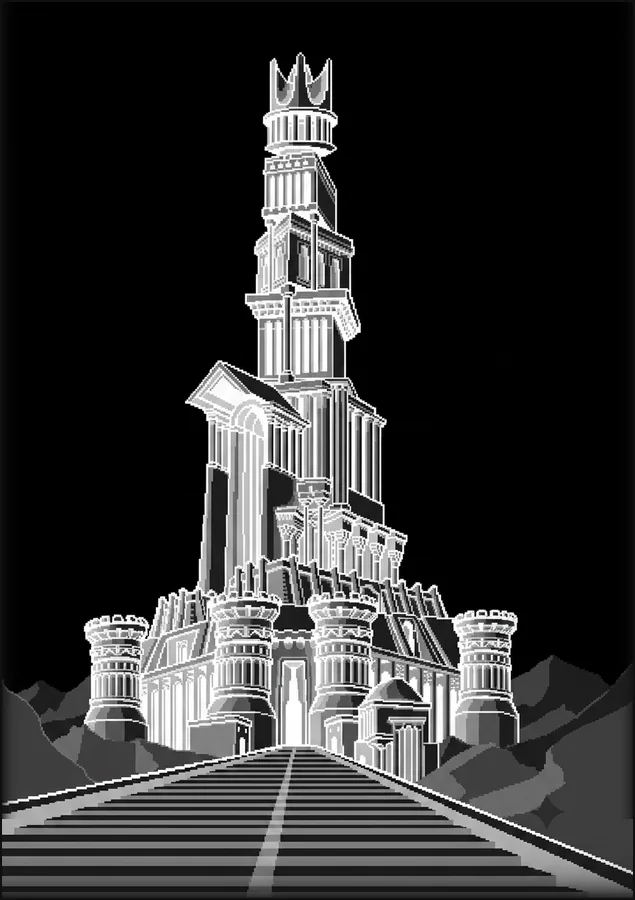
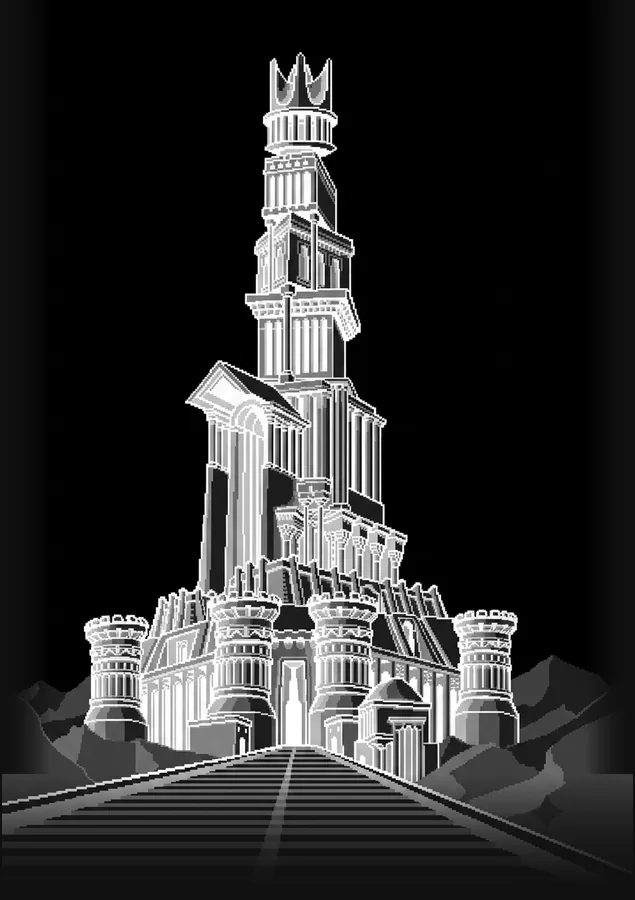
feat: mobile theme toggle + smoother home image fade
- Added a 6th bottom-nav theme toggle (sun/moon icon) on mobile, hidden
  on desktop where the footer toggle remains. client.ts now binds all
  [data-theme-toggle] buttons and syncs each button's icon/label.
- Regenerated home-bg images with a wider, smoother left/right/bottom
  fade reaching pure white (light) / dark paper #101010 (dark); top edge
  stays sharp. Drawing center stays fully clear.

Changed region(s): [[0.0, 0.7467, 1.0, 1.0], [0.9276, 0.7778, 1.0, 0.8711]]

diff --git a/src/lib/client.ts b/src/lib/client.ts
@@ -21,24 +21,28 @@ function showSnackbar(msg: string) {
 /* Theme toggle */
 function themeInit() {
   const html = document.documentElement;
-  const btn = document.querySelector('[data-theme-toggle]');
-  const label = document.querySelector('[data-theme-label]');
-  const sun = document.querySelector('[data-theme-icon-sun]');
-  const moon = document.querySelector('[data-theme-icon-moon]');
+  const btns = Array.from(document.querySelectorAll('[data-theme-toggle]'));
   const sync = () => {
     const dark = html.getAttribute('data-theme') === 'dark';
-    if (label) label.textContent = dark ? 'Dark mode' : 'Light mode';
-    if (sun) sun.style.display = dark ? 'none' : 'block';
-    if (moon) moon.style.display = dark ? 'block' : 'none';
+    btns.forEach((btn) => {
+      const label = btn.querySelector('[data-theme-label]');
+      const sun = btn.querySelector('[data-theme-icon-sun]');
+      const moon = btn.querySelector('[data-theme-icon-moon]');
+      if (label) label.textContent = dark ? 'Dark mode' : 'Light mode';
+      if (sun) sun.style.display = dark ? 'none' : 'block';
+      if (moon) moon.style.display = dark ? 'block' : 'none';
+    });
     const tc = document.querySelector('meta[name="theme-color"]');
     if (tc) tc.setAttribute('content', dark ? '#101010' : '#ffffff');
   };
   sync();
-  btn?.addEventListener('click', () => {
-    const next = html.getAttribute('data-theme') === 'dark' ? 'light' : 'dark';
-    html.setAttribute('data-theme', next);
-    localStorage.setItem('amro_blog_theme', next);
-    sync();
+  btns.forEach((btn) => {
+    btn?.addEventListener('click', () => {
+      const next = html.getAttribute('data-theme') === 'dark' ? 'light' : 'dark';
+      html.setAttribute('data-theme', next);
+      localStorage.setItem('amro_blog_theme', next);
+      sync();
+    });
   });
 }
 

diff --git a/src/styles/global.css b/src/styles/global.css
@@ -164,6 +164,8 @@ html[data-theme="dark"] .astro-code, html[data-theme="dark"] .astro-code .line, 
 .nav-item:hover { background: var(--color-paper-raise); color: var(--color-ink); }
 .nav-item.active { background: var(--color-primary-container); color: var(--color-on-primary-container); }
 .nav-item[data-theme-toggle] { border: none; background: none; cursor: pointer; font-family: inherit; }
+/* Mobile-only theme toggle (6th bottom-nav item); hidden on desktop */
+.nav-item--theme { display: none; }
 .nav-footer { display: flex; align-items: center; gap: 8px; }
 .nav-social { display: flex; gap: 4px; }
 .nav-social-btn {
@@ -420,6 +422,8 @@ a.post-card-tag:hover { background: var(--color-primary-container); color: var(-
   .nav-list { flex-direction: row; justify-content: space-around; flex: 1; }
   .nav-item { flex-direction: column; gap: 2px; height: 56px; padding: 0 8px; font-size: 0.6875rem; flex: 1; justify-content: center; }
   .nav-item svg { width: 22px; height: 22px; }
+  .nav-item--theme { display: flex; }
+  .nav-item--theme span[data-theme-label] { display: none; }
   .nav-footer { display: none; }
   .page-main { margin-left: 0; padding: 24px 20px 96px; }
   .back-to-top { bottom: 84px; }

diff --git a/src/content/blog/001_ai_0008_adopting_docling/research/research.md b/src/content/blog/001_ai_0008_adopting_docling/research/research.md
@@ -1,0 +1,248 @@
+# Research: Adopting Docling (for document ingestion, with SmolDocling & LangFlow)
+
+Source material gathered via live browsing (GitHub, official Docling docs, Hugging Face, LangFlow docs) on 2026-08-10. All facts below are cited with the exact URL they came from — use this as raw material, not final article prose.
+
+---
+
+## 1. What is Docling?
+
+- **Repo**: https://github.com/docling-project/docling
+- Tagline: *"Docling simplifies document processing by parsing diverse formats — including advanced PDF understanding — and providing seamless integrations with the generative AI ecosystem."*
+- **Origin**: "The project was started by the AI for knowledge team at **IBM Research Zurich**." Now hosted as a project under the **LF AI & Data Foundation** (Linux Foundation).
+- **License**: MIT (codebase). Individual models (e.g. SmolDocling, layout models) have their own licenses.
+- **Stats (as of Aug 10, 2026)**: 64.5k GitHub stars, 4.6k forks, 224 watchers, 290 contributors, 202 releases, used by 3.5K+ repos on GitHub, latest release **v2.119.0**.
+- **Technical report**: Docling Technical Report, arXiv:2408.09869 (DOI 10.48550/arXiv.2408.09869), cited as:
+  ```
+  @techreport{Docling,
+    author = {Deep Search Team},
+    month = {8},
+    title = {Docling Technical Report},
+    url = {https://arxiv.org/abs/2408.09869},
+    eprint = {2408.09869},
+    doi = {10.48550/arXiv.2408.09869},
+    version = {1.0.0},
+    year = {2024}
+  }
+  ```
+- Python 3.10+ required (Python 3.9 support dropped in docling v2.70.0). Works on macOS, Linux, Windows, x86_64 and arm64.
+
+## 2. Supported formats
+
+**Input formats** (from README feature list): PDF, DOCX, PPTX, XLSX, HTML, EPUB, WAV, MP3, WebVTT, Box Notes, email formats (EML, MSG), images (PNG, TIFF, JPEG, ...), LaTeX, DocLang, plain text (.txt, .text), Markdown supersets (.qmd, .Rmd), and more.
+
+Recent additions ("What's new" as of this version):
+- 🎬 Video files (MP4, AVI, MOV, MKV, WebM) — parsed with an ASR transcript + representative keyframes
+- 📄 ODF (OpenDocument Format): .odt, .ods, .odp
+- 💼 XBRL (eXtensible Business Reporting Language) financial reports
+- 📧 Email files (.eml, .msg)
+- 📚 EPUB e-books
+- 📊 Chart understanding (bar chart, pie chart, line plot) — converts charts into tables or code with detail extraction
+
+**Coming soon**: metadata extraction (title, authors, references, language), complex chemistry/molecular structure understanding.
+
+**Output/export formats**: Markdown, HTML, WebVTT, DocLang, **DocTags**, and lossless JSON (the full `DoclingDocument` serialization).
+
+**Application-specific XML schema support**: DocLang, USPTO patents, JATS articles, XBRL financial reports.
+
+Source: https://github.com/docling-project/docling (README)
+
+## 3. Architecture / pipeline
+
+Source: https://docling-project.github.io/docling/concepts/architecture/
+
+- For each document format, the **`DocumentConverter`** knows which format-specific **backend** to use for parsing and which **pipeline** to use for orchestrating execution, along with relevant options.
+- This is fully parametrizable — e.g. for PDF, you can swap in different backends and pipeline options.
+- The conversion result contains the **`DoclingDocument`** — Docling's fundamental, unified document representation, independent of the source format.
+- From a `DoclingDocument` you can: call export methods directly (markdown, dict, etc.), pass it through a **serializer**, or pass it through a **chunker**.
+- Base classes are subclassable for specialized/custom implementations (backends, pipelines, chunkers, serializers are all pluggable).
+
+**Feature list relevant to the PDF/parsing pipeline** (from README):
+- 📑 Advanced PDF understanding incl. page layout, reading order, table structure, code, formulas, images
+- 🧬 Unified, expressive `DoclingDocument` representation format
+- 🔍 Extensive OCR support for scanned PDFs and images
+- 👓 Support for several Visual Language Models (VLMs), such as **GraniteDocling**, as an alternative pipeline to the classic model-cascade pipeline
+- 🎙 Audio support with Automatic Speech Recognition (ASR) models
+- 🔌 Connect to any agent via an **MCP server**
+- 🌐 Run Docling as a service via the **API server** (`docling-serve`)
+- 💻 CLI
+
+Two ways to run PDF conversion in practice:
+1. **Standard pipeline** — classic cascade of specialized models (layout detection, table structure recognition/TableFormer lineage, OCR engine, reading-order model) feeding into the unified `DoclingDocument`.
+2. **VLM pipeline** — a single vision-language model (e.g. `granite_docling`) does full-page or region-guided document conversion directly, e.g.:
+   ```
+   docling --pipeline vlm --vlm-model granite_docling https://arxiv.org/pdf/2206.01062
+   ```
+
+## 4. SmolDocling → succeeded by Granite-Docling
+
+Source: https://huggingface.co/docling-project/SmolDocling-256M-preview and https://huggingface.co/ibm-granite/granite-docling-258M
+
+**Important**: the HF page for SmolDocling now displays a banner: *"📢 New Release: We've released granite-docling-258M, the successor to SmolDocling. It will now receive updates and support, check it out!"* — for the article, it's worth clarifying this lineage (SmolDocling was the original ultra-compact VLM; Granite-Docling-258M is the actively maintained successor).
+
+### SmolDocling-256M-preview
+- Paper: *"SmolDocling: An ultra-compact vision-language model for end-to-end multi-modal document conversion"*, arXiv:2503.11576 (Mar 14, 2025).
+- Developed by: **Docling Team, IBM Research**.
+- Model type: multimodal image-text-to-text.
+- Architecture: based on **Idefics3**, finetuned from **SmolVLM-256M-Instruct** (base LLM: HuggingFaceTB/SmolLM2-135M).
+- Size: **0.3B params** (256M), tensor type BF16.
+- License: **Apache 2.0**.
+- Downloads last month (at time of research): 30,134.
+- Introduces **DocTags** — an efficient, minimal tag-based representation for documents, fully compatible with `DoclingDocument`, explicitly designed to be easier for image-to-sequence models than directly emitting HTML/Markdown (which "loses details, doesn't clearly show layout, and increases token count").
+- Feature list: DocTags tokenization, OCR, layout + bounding-box localization, code recognition (with indentation), formula recognition, chart recognition/interpretation, table recognition (row/col headers), figure classification, caption-to-image correspondence, list grouping, full-page conversion, OCR with bounding boxes, general (scientific + non-scientific) document processing, seamless Docling import/export.
+- Performance claim: **~0.35 sec/page on an A100 GPU** using vLLM.
+- Inference options shown on model card: 🤗 Transformers, vLLM (OpenAI-compatible server), SGLang, ONNX, MLX (Apple Silicon local inference), llama.cpp/Ollama/LM Studio/Jan via GGUF quantizations.
+- Supported natural-language instructions (DocTags prompting), e.g.:
+  - `Convert this page to docling.` → full-page DocTags
+  - `Convert chart to table.` → `<chart>`
+  - `Convert formula to LaTeX.` → `<formula>`
+  - `Convert code to text.` → `<code>`
+  - `Convert table to OTSL.` → `<otsl>` (OTSL = Optimized Table Structure Language, from Lysak et al., 2023, arXiv:2305.03393 "Optimized Table Tokenization for Table Structure Recognition")
+  - Location/region-targeted OCR via `<loc_x1><loc_y1><loc_x2><loc_y2>` bbox tags
+- Trained on datasets: HuggingFaceM4/DoclingMatix, docling-project/SynthCodeNet, docling-project/SynthChartNet, docling-project/SynthFormulaNet.
+- 26+ community Spaces built on it (OCR apps, demos, leaderboards).
+
+### Granite-Docling-258M (the current recommended model)
+- Developed by: **IBM Research**. Released **Sept 17, 2025**. License: **Apache 2.0**.
+- Architecture: builds on Idefics3, but **replaces the vision encoder with `siglip2-base-patch16-512`** and **replaces the LLM with a Granite 165M model** (vs SmolDocling's SmolLM2-135M-based LLM). Trained with the **nanoVLM** framework. Incorporated DocTags directly into SFT data (vs SmolDocling, which had this added post-hoc) — this improved training stability and convergence, explicitly fixing "issues previously observed with SmolDocling" (e.g. infinite generation loops).
+- Positioned explicitly as **complementing, not replacing, the Docling library**: "consolidating the functions of multiple single-purpose models into a single, compact VLM." Not intended for general image understanding (use Granite Vision models for that).
+- New/improved features vs SmolDocling: enhanced equation recognition, flexible inference modes (full-page / bbox-guided region / element-QA), improved stability (fewer infinite loops), better inline-equation recognition, document element QA (e.g. "does this doc have a table of contents, and in what order"), experimental Japanese/Arabic/Chinese support.
+- Easiest usage: install `docling`, then run
+  ```
+  docling --to html --to md --pipeline vlm --vlm-model granite_docling <source>
+  ```
+  It auto-downloads the model. Also usable via bare transformers/vLLM/ONNX/mlx-vlm.
+
+**Head-to-head benchmark numbers (Granite-Docling-258M model card), SmolDocling-256M-preview vs granite-docling-258m:**
+
+| Task | Metric | SmolDocling-256M | Granite-Docling-258M |
+|---|---|---|---|
+| Layout | MAP↑ / F1↑ / Precision↑ / Recall↑ | 0.23 / 0.85 / 0.90 / 0.84 | 0.27 / 0.86 / 0.92 / 0.88 |
+| Full Page OCR | Edit-distance↓ / F1↑ / Precision↑ / Recall↑ / BLEU↑ / Meteor↑ | 0.48 / 0.80 / 0.89 / 0.79 / 0.58 / 0.67 | 0.45 / 0.84 / 0.91 / 0.83 / 0.65 / 0.72 |
+| Code Recognition | Edit-distance↓ / F1↑ / Precision↑ / Recall↑ / BLEU↑ / Meteor↑ | 0.114 / 0.915 / 0.94 / 0.909 / 0.875 / 0.889 | 0.013 / 0.988 / 0.99 / 0.988 / 0.983 / 0.986 |
+| Equation Recognition | Edit-distance↓ / F1↑ / Precision↑ / Recall↑ / BLEU↑ / Meteor↑ | 0.119 / 0.947 / 0.959 / 0.941 / 0.824 / 0.878 | 0.073 / 0.968 / 0.968 / 0.969 / 0.893 / 0.927 |
+| Table Recognition (FinTabNet 150dpi) | TEDS structure↑ / TEDS w/content↑ | 0.82 / 0.76 | 0.97 / 0.96 |
+| MMStar / OCRBench | ↑ / ↑ | 0.17 / 338 | 0.30 / 500 |
+
+This is a clean, concrete, citable improvement story worth using in the article (esp. Code Recognition edit-distance improving ~9x, and Table Recognition TEDS jumping from 0.82→0.97).
+
+## 5. Practical usage — Python quickstart
+
+Source: https://github.com/docling-project/docling and https://docling-project.github.io/docling/usage/
+
+Install:
+```bash
+pip install docling
+```
+
+CLI:
+```bash
+docling https://arxiv.org/pdf/2206.01062
+# generates a .md file with structured document content
+```
+
+CLI with a VLM pipeline (GraniteDocling or other VLMs, incl. MLX acceleration):
+```bash
+docling --pipeline vlm --vlm-model granite_docling https://arxiv.org/pdf/2206.01062
+```
+
+Recommended Python usage:
+```python
+from docling.document_converter import DocumentConverter
+
+source = "https://arxiv.org/pdf/2408.09869"  # local path or URL
+converter = DocumentConverter()
+result = converter.convert(source)
+print(result.document.export_to_markdown())
+```
+
+The docs note this pattern generalizes: "converting your source file to a Docling document" then "using that Docling document for your workflow" (export to markdown/HTML/JSON, chunk it, feed it to a RAG pipeline, etc.) — same 2-step mental model regardless of format.
+
+## 6. Chunking for RAG
+
+Source: https://docling-project.github.io/docling/concepts/chunking/
+
+Two chunking philosophies noted explicitly in the docs:
+1. Export `DoclingDocument` → Markdown (or similar), then do naive/user-defined chunking as a post-processing step.
+2. Use **native Docling chunkers** operating directly on the structured `DoclingDocument` — this is the structure-aware approach and what the docs focus on.
+
+A **chunker** is a Docling abstraction: given a `DoclingDocument`, it returns a stream of chunks, each capturing part of the document as a string + metadata. `BaseChunker` interface requires:
+- `chunk(self, dl_doc, **kwargs) -> Iterator[BaseChunk]`
+- `contextualize(self, chunk) -> str` — metadata-enriched serialization, meant to feed an embedding or generation model.
+
+Docling's LlamaIndex integration is built directly on the `BaseChunker` interface, so any custom chunker plugs in the same way.
+
+**Chunker implementations:**
+
+- **`HierarchicalChunker`**: uses the document structure info from `DoclingDocument` to create **one chunk per detected document element** (by default merging only list items — configurable via `merge_list_items`). Automatically attaches relevant metadata including headers and captions to each chunk. This is the foundational structure-aware chunker.
+
+- **`HybridChunker`** (`docling.chunking.HybridChunker` or `docling_core.transforms.chunker.hybrid_chunker.HybridChunker`): applies **tokenization-aware refinements on top of hierarchical chunking**. Concretely:
+  1. Starts from `HierarchicalChunker` output.
+  2. Pass 1 — splits chunks only when oversized w.r.t. the token limit (given a user-provided tokenizer, e.g. HuggingFace or OpenAI/tiktoken).
+  3. Pass 2 — merges undersized successive chunks that share the same headings, to avoid fragment-heavy over-chunking.
+  - Table-specific options: `repeat_table_header` (default `True` — repeats table header at the start of every chunk when a table spans multiple chunks, preserving context) and `omit_header_on_overflow` (default `False` — drops the header for a specific row if including it would overflow the token limit, but the row alone fits; maximizes token efficiency on very wide tables).
+  - Install extras: `pip install 'docling-core[chunking]'` for HF tokenizers, or `'docling-core[chunking-openai]'` for tiktoken.
+
+- **`LineBasedTokenChunker`** (`docling.chunking.LineBasedTokenChunker`): a tokenization-aware chunker that **preserves line boundaries** — useful for structured content like tables, code, logs, lists. Only splits a line if that single line alone exceeds the token limit. Supports a repeated prefix per chunk (e.g., table headers) and an `omit_prefix_on_overflow` param analogous to the HybridChunker's table option.
+
+**Why this matters for RAG** (implicit but clear from the design): naive text-splitting (e.g. fixed character windows) breaks tables mid-row, separates headings from their content, and loses document hierarchy — all of which degrades retrieval quality and LLM context comprehension. Docling's chunkers operate on the *parsed structure* (not raw text), so chunks stay semantically coherent (whole table rows with repeated headers, whole list items, heading-attached sections) while still respecting an embedding model's token budget.
+
+## 7. LangFlow integration (core to this article)
+
+Source: https://docling-project.github.io/docling/integrations/langflow/ → https://docs.langflow.org/bundles-docling
+
+- Docling is one of LangFlow's **featured "Agentic / AI dev frameworks" bundle integrations**, alongside LangChain, LlamaIndex, Haystack, Crew AI, Bee Agent Framework, Hector, Semantica, txtai.
+- LangFlow integrates Docling via a **bundle of components for parsing and chunking documents** — this ships as a separate installable bundle (`lfx-docling`) when using `lfx` directly, or is bundled automatically if you `uv pip install langflow`.
+- Optional extras (install as needed):
+  ```
+  uv pip install "lfx-docling[local]"          # local model component
+  uv pip install "langflow[docling]"           # if installed as full langflow package
+  uv pip install "lfx-docling[chunking]"       # HybridChunker/HierarchicalChunker support
+  uv pip install "lfx-docling[image-description]"  # vision-model image captions
+  ```
+- Windows-specific prerequisite: must enable Windows Developer Mode for Langflow Desktop to use Docling components; also may need `LANGFLOW_DOCLING=True` in `.env`.
+- Docker/Linux: may need extra system packages for document processing (their docs link out to a troubleshooting page).
+
+**The four Docling components exposed inside LangFlow's visual canvas:**
+
+1. **Docling (local model)** — ingests documents and processes them by running a **local Docling model**. Outputs `DoclingDocument` data attached to the file objects.
+   - Parameters: `files` (File), `pipeline` (String: `standard` or `vlm`), `ocr_engine` (String: `easyocr`, `tesserocr`, `rapidocr`, `ocrmac`).
+
+2. **Docling Serve** — same job, but delegates processing to a remote **`docling-serve`** API instance instead of running a model in-process. Good for offloading heavy inference or centralizing a shared Docling service.
+   - Parameters: `files`, `api_url`, `max_concurrency` (Integer), `max_poll_timeout` (Float), `api_headers` (Dict), `docling_serve_opts` (Dict).
+
+3. **Chunk DoclingDocument** — splits `DoclingDocument` objects into chunks (requires the chunking extras).
+   - Parameters: `data_inputs` (JSON/Table), `chunker` (String: `HybridChunker` or `HierarchicalChunker`), `provider` (String: Hugging Face or OpenAI tokenizer), `hf_model_name`, `openai_model_name`, `max_tokens` (Integer), `doc_key` (String).
+
+4. **Export DoclingDocument** — exports `DoclingDocument` to Markdown, HTML, Plaintext, or DocTags.
+   - Parameters: `data_inputs`, `export_format` (Markdown/HTML/Plaintext/DocTags), `image_mode` (`placeholder`/`embedded`), `md_image_placeholder`, `md_page_break_placeholder`, `doc_key`.
+
+**Reference RAG flow described in the LangFlow docs (exact pattern for the article's demo):**
+1. `Docling` component ingests the file → `Export DoclingDocument` converts it (e.g. to Markdown, with images as placeholders) → feeds into a **Split Text** component.
+2. **Split Text**'s `Chunks` output → **Chroma DB** vector store component.
+3. An **embedding model** component → Chroma DB's `Embedding` port; a **Chat Output** component can be wired up to inspect the extracted Table output.
+4. Configure the embedding model (credentials etc.), attach a file to the `Docling` component, click **Playground** to run — the chunked document gets embedded and loaded into the vector database.
+
+There's also an official video tutorial referenced: *"Docling + Langflow: Document Processing for AI Workflows"* (linked from the LangFlow docs page).
+
+## 8. Ecosystem / other integrations & notable framework support
+
+Source: https://docling-project.github.io/docling/integrations/
+
+Full "Agentic / AI dev frameworks" integration list: Bee Agent Framework, Crew AI, Haystack, Hector, **LangChain**, **Langflow**, **LlamaIndex**, Semantica, txtai. Plus a "Featured" and "More integrations" catalog beyond this (not fully enumerated in this pass, but the category structure alone signals broad ecosystem reach — vector DBs, agent frameworks, and enterprise platforms all have first-party or community Docling connectors).
+
+README also calls out: 🔒 local execution for sensitive/air-gapped environments, 🔌 MCP server connectivity ("connect to any agent"), 🌐 `docling-serve` API server for running Docling as a hosted service — all relevant if the article wants to contrast "local/offline Docling" vs "Docling Serve as a microservice" deployment models (this maps directly onto the two LangFlow ingestion components above).
+
+## Reference URLs (for article citations)
+
+- https://github.com/docling-project/docling — main repo/README
+- https://docling-project.github.io/docling/concepts/architecture/ — architecture concept page
+- https://docling-project.github.io/docling/concepts/chunking/ — chunking concept page (HybridChunker, HierarchicalChunker, LineBasedTokenChunker)
+- https://docling-project.github.io/docling/usage/ — basic usage (Python + CLI)
+- https://docling-project.github.io/docling/integrations/ — integrations index
+- https://docling-project.github.io/docling/integrations/langflow/ — Docling's own Langflow integration pointer page
+- https://docs.langflow.org/bundles-docling — LangFlow's official Docling bundle docs (components, parameters, reference flow)
+- https://huggingface.co/docling-project/SmolDocling-256M-preview — SmolDocling model card
+- https://arxiv.org/abs/2503.11576 — SmolDocling paper
+- https://huggingface.co/ibm-granite/granite-docling-258M — Granite-Docling (SmolDocling's successor) model card, incl. head-to-head benchmarks
+- https://arxiv.org/abs/2408.09869 — Docling Technical Report
+- https://arxiv.org/abs/2305.03393 — Lysak et al. 2023, "Optimized Table Tokenization for Table Structure Recognition" (OTSL)

diff --git a/src/content/blog/001_ai_0007_three_architectures_reshaping_ai/index.md b/src/content/blog/001_ai_0007_three_architectures_reshaping_ai/index.md
@@ -7,15 +7,19 @@ tags:
     - ai
 ---
 
-## Hook
+Things are moving too fast in the AI space, but the more you get into it, the more you get optimistinc, most of the industry is morphing into alike archeticture by the big boys, OpenAI, Anthropic and Google.
 
-![Cerebras vs Mercury vs DeepInfra — real-time race](/blog/001_ai_0007_three_architectures_reshaping_ai/race_comparison_v2.gif)
+The mostly deployes archeticture, and pardon me , every word of these has a lot begind it , something like GPT 4 is a Decoder Only / Auto regerssive / Transformer model running on general purpose GPU 
 
-## Cerebras — The Hardware Beast
 
-![Cerebras LPU real run](/blog/001_ai_0007_three_architectures_reshaping_ai/demo_cerebras.gif)
 
-## Mercury 2 — The Diffusion Rebel
+## Cerebras , *GPU vs WSE*
+
+We already know what GPUs are , but WSE (Wafer Scale Enging) have been 
+
+
+
+## Mercury 2 , *Decoder Only vs Text Diffusion*
 
 ![Mercury diffusion real run](/blog/001_ai_0007_three_architectures_reshaping_ai/demo_mercury.gif)
 
@@ -29,4 +33,15 @@ tags:
 
 ## Close
 
+
+
+More things you can check : 
+
+- Groq LPUs (Large Processing Unit, this is comapred to GPUs / WSE) - Used by Nvedea for Prefil accelration on the new Vera Rubin NVL 72 deployments.
+- Dense vs MOE models - old but gold concept.
+- 
+
 ## References
+
+- https://youtu.be/MqjvfJTCuqw?si=w1vIgLqRE5iDc15f
+- https://www.youtube.com/watch?v=bmr718eZYGU&list=PL4bm2lr9UVG3SN79Y6WBe4OOlEiO88vie&index=2

diff --git a/src/content/blog/001_ai_0008_adopting_docling/index.md b/src/content/blog/001_ai_0008_adopting_docling/index.md
@@ -1,0 +1,8 @@
+---
+title: "Adopting Docling"
+date: 2026-08-10T00:00:00Z
+draft: true
+toc: true
+tags:
+    - ai
+---
